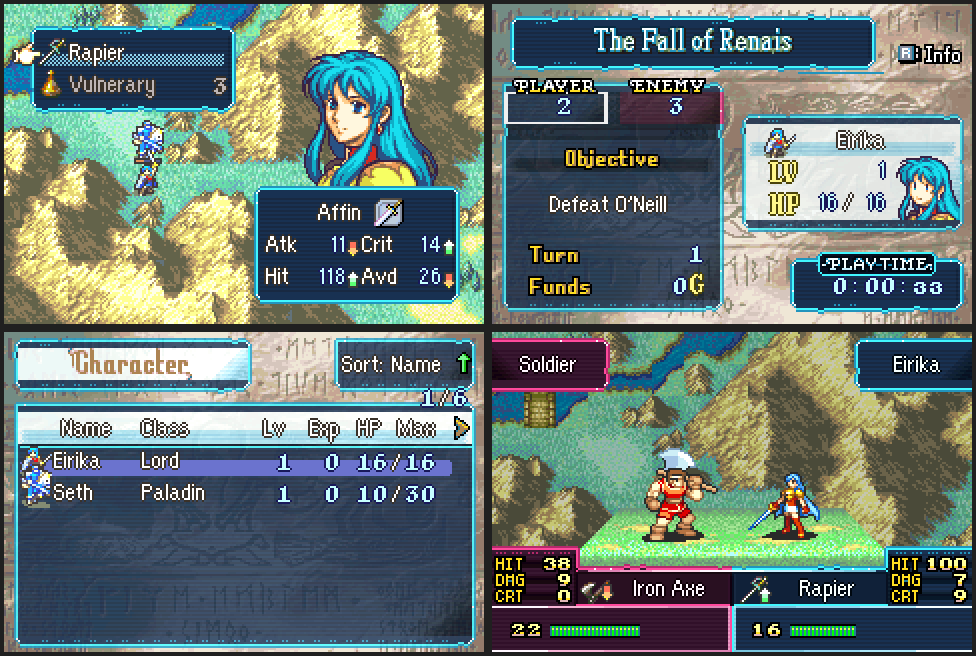
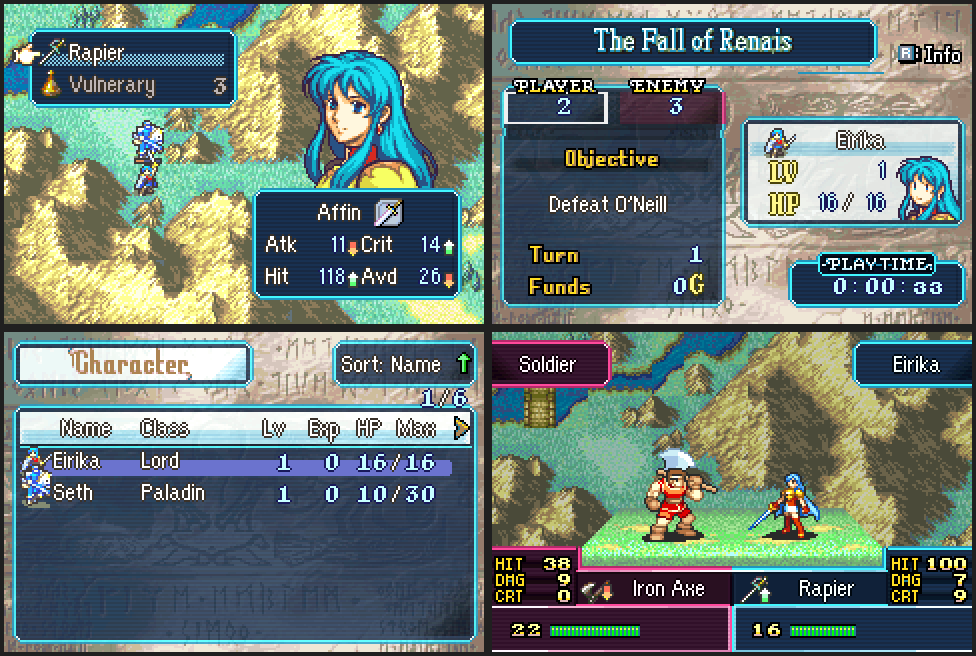
Make the Tech VeslyUI outline plain, even and rounded
- The edge details are gone: dim segments, nodes, notches, raised tabs and tick marks.
- The neon line now sits just outside a 2-pixel band of panel on all four sides. Vanilla's top and bottom bars are shared by dark and light panels, and the old layout left a thick dark strip along the top and bottom of light panels. Now the band is invisible on dark panels and an even inset line on light ones. The rest of each bar is transparent.
- Side lines sit one pixel outside vanilla's outline and top and bottom lines one pixel inside it. That leaves the corner tile room for the two-step rounded corner.
- Full-tile (style 1) windows get the same single line on their outer sides instead of dark bars.
- The Sort box's top-left tile (0x61) is treated as a corner through a new optional EXTRA_CORNERS. Wood's art is byte-identical.

Claude-Session: https://claude.ai/code/session_01Tw4Msv6aWGsnaGTgRodNJ7

diff --git a/Kernel/Wizardry/VeslyUI/png/Tech/generate_tech.py b/Kernel/Wizardry/VeslyUI/png/Tech/generate_tech.py
@@ -9,8 +9,7 @@ The shared redraw lives in ../style_tools.py; this script sets the look:
     on all four sides, with a dim glow outside it and no black outline;
     vanilla's thick top and bottom bars become panel behind that line;
   * corners are chamfered, the line cutting across them with a white-hot
-    node; along the edges, dim segments, nodes, notches, raised tabs and tick
-    marks;
+    node; the edges themselves stay plain and even;
   * scanlines on the fill colours, every other pixel row.
 
 Outputs (next to this script):
@@ -26,8 +25,7 @@ import os
 import sys
 
 sys.path.insert(0, os.path.join(os.path.dirname(os.path.abspath(__file__)), ".."))
-from style_tools import D, L, M, W, build_style, noise, outer_edges, paint, rgb, step  # noqa: E402
-import style_tools  # noqa: E402
+from style_tools import D, L, M, W, build_style, rgb  # noqa: E402
 
 NAME = "Tech"
 HERE = os.path.dirname(os.path.abspath(__file__))
@@ -98,69 +96,99 @@ def texture(image, kind, skip=frozenset()):
 # --- Frame ------------------------------------------------------------------------
 # Every window edge is one bright neon line, the same thickness on all four
 # sides, with a dim glow just outside it and no black outline. Vanilla's thick
-# top and bottom bars become panel behind that line.
+# top and bottom bars are shared by dark and light panels, so the line sits
+# just outside a 2-pixel band of panel on all four sides: invisible on dark
+# panels, an even inset line on light ones. The rest of the bar is left
+# transparent. Side lines sit one pixel outside vanilla's window outline and
+# top and bottom lines one pixel inside it, which leaves the corner tile room
+# for a rounded corner.
 OUTLINE = NEON
 PANEL = 10
 
 
 def beam(n, i, outer):
-    """A bar n pixels thick. At a window edge: the neon line on the outer
-    side, panel behind it. Between two panels: a neon line on a dark rail."""
+    """A bar n pixels thick. At a window edge: the neon line and its band
+    next to the panel, nothing outside them. Between two panels: a neon line
+    on a dark rail."""
     if outer == 0:
         return NEON if i == n // 2 else RAIL
+    if n == 1:
+        return NEON
     p = i if outer < 0 else n - 1 - i      # distance from the outer side
-    return NEON if p == 0 else PANEL
+    if p >= n - 2:
+        return PANEL
+    return NEON if p == n - 3 else 0
 
 
 # Big solid trim areas (patterned plates, the battle item boxes) become panel.
 SOLID = {W: 11, L: 12, M: 15, D: 14}
 
-# Chamfered corners: the neon line and its glow cut across the corner, with a
-# white-hot node on the cut. Rows and columns match the window outline: top
-# edges are row 4 (glow row 3), bottom edges row 4 (glow row 5), left edges
-# x 6 (glow x 5), right edges x 2 (glow x 3).
+# Rounded corners: the lines cut across the corner in two white-hot steps,
+# glow around them. Top edges are row 5 (glow row 4, band rows 6-7), bottom
+# edges row 2 (glow row 3, band rows 0-1), left edges x 5 (glow x 4, band
+# x 6-7), right edges x 3 (glow x 4, band x 1-2).
 CORNER_ART = {
     "TL": ["........",
            "........",
            "........",
            "........",
+           "........",
            ".......g",
            "......gW",
-           ".....gWP",
-           ".....gNP"],
+           ".....gWS"],
     "TR": ["........",
+           "........",
            "........",
            "........",
            "g.......",
            "Ng......",
            "PWg.....",
-           "PPWg....",
-           "PPNg...."],
-    "BL": [".....gNP",
-           ".....gWP",
+           "SSWg...."],
+    "BL": [".....gWP",
            "......gW",
            ".......g",
            "........",
            "........",
            "........",
+           "........",
            "........"],
-    "BR": ["PPNg....",
-           "PPWg....",
-           "PWg.....",
-           "Wg......",
+    "BR": ["PPWg....",
+           "SWg.....",
+           "Ng......",
            "g.......",
+           "........",
            "........",
            "........",
            "........"],
 }
-ART_INDEX = {".": 0, "N": NEON, "g": GLOW, "W": W, "P": PANEL}
+# The "Sort" box and similar windows start with this top-left tile.
+EXTRA_CORNERS = {0x61: "TL"}
+# S is panel on an odd row, already in its scanline shade.
+ART_INDEX = {".": 0, "N": NEON, "g": GLOW, "W": W, "P": PANEL, "S": PANEL + 1}
 
 # Pixels cut off a full-tile corner, as (x, y) for the top-left case.
 CORNER_CUT = [(0, 0), (1, 0), (2, 0), (0, 1), (1, 1), (0, 2)]
 
 
+# Window style 1 fills its whole tiles, so nothing marks its edges as facing
+# the backdrop. Its edge and corner tiles are drawn as plain panel with the
+# neon line on their outer sides, matching the other windows.
+FULL_TILE_EDGES = {0x73: "T", 0x75: "L", 0x76: "R", 0x78: "B"}
+
+
+def flat_panel(tile, sides, drawn):
+    for y in range(8):
+        for x in range(8):
+            edge = (("T" in sides and y == 0) or ("B" in sides and y == 7)
+                    or ("L" in sides and x == 0) or ("R" in sides and x == 7))
+            tile[y][x] = NEON if edge else PANEL
+            if edge:
+                drawn.add((x, y))
+
+
 def full_corner(tile, corner, drawn):
     """Chamfer the corner of a window that fills its whole tile."""
+    flat_panel(tile, corner, drawn)
     flip_x, flip_y = corner.endswith("R"), corner[0] == "B"
     cut = [(7 - x if flip_x else x, 7 - y if flip_y else y) for x, y in CORNER_CUT]
     for x, y in cut:
@@ -172,20 +200,19 @@ def full_corner(tile, corner, drawn):
                 drawn.add((nx, ny))
 
 
-def clean_rim(tile, drawn):
-    """Vanilla lights the inside of a window's left edge; tech keeps it panel."""
-    for y in range(8):
-        for x in range(8):
-            if tile[y][x] != NEON:
-                continue
-            for dx, dy in ((1, 0), (-1, 0), (0, 1), (0, -1)):
-                ox, oy, ix, iy, jx, jy = x - dx, y - dy, x + dx, y + dy, x + 2 * dx, y + 2 * dy
-                if not all(0 <= v < 8 for v in (ox, oy, ix, iy)):
-                    continue
-                inner_next = tile[jy][jx] if 0 <= jx < 8 and 0 <= jy < 8 else PANEL
-                if tile[oy][ox] == 0 and tile[iy][ix] == 9 and inner_next >= 10:
-                    tile[iy][ix] = PANEL
-                    drawn.add((ix, iy))
+def push_sides(tile, drawn):
+    """Move each left and right edge line one pixel out, leaving a 2-pixel
+    band of panel inside it (top and bottom bands come from beam()). The band
+    stays out of drawn so the scanlines run through it."""
+    lines = [(x, y, dx) for y in range(8) for x in range(8) for dx in (1, -1)
+             if tile[y][x] == NEON and 0 <= x - dx < 8 and tile[y][x - dx] == 0]
+    for x, y, dx in lines:
+        tile[y][x - dx] = NEON
+        drawn.add((x - dx, y))
+        tile[y][x] = PANEL
+        inner = x + dx
+        if 0 <= inner < 8 and (tile[y][inner] == W or 5 <= tile[y][inner] <= 15):
+            tile[y][inner] = PANEL
 
 
 def add_glow(tile, drawn):
@@ -198,73 +225,15 @@ def add_glow(tile, drawn):
                 drawn.add((nx, ny))
 
 
-# Details on the interchangeable beam and edge tiles (style_tools.TOP_BEAMS
-# and friends). Each: (kind, cell along the edge), cells counting from 0 at
-# pixel 1.
-EDGE_DETAILS = {
-    # top edges
-    0x04: [("notch", 1)],
-    0x11: [("node", 4)],
-    0x12: [("ticks", 1)],
-    0x13: [("dim", 2)],
-    0x32: [("tab", 1)],
-    0x33: [("node", 2), ("dim", 4)],
-    # bottom edges
-    0x1C: [("ticks", 2)],
-    0x1D: [("tab", 2)],
-    0x1E: [("dim", 1)],
-    0x20: [("notch", 2)],
-    # left edges
-    0x07: [("node", 2)],
-    0x14: [("dim", 1)],
-    0x0C: [("node", 3)],
-    0x17: [("tab", 1)],
-}
-
-
-def detail(tile, cells, inward, kind, at, drawn):
-    """One detail on the neon edge line: a dim segment, a white-hot node, a
-    notch stepping the edge in, a raised tab stepping it out, or tick marks
-    inside the panel."""
-    if kind == "dim":
-        for cell in cells[at:at + 2]:
-            paint(tile, cell, GLOW, drawn)
-    elif kind == "node":
-        paint(tile, cells[at], W, drawn)
-    elif kind == "notch":
-        for cell in cells[at:at + 3]:
-            tile[cell[1]][cell[0]] = 0
-            drawn.discard(cell)
-            paint(tile, step(cell, inward, 1), NEON, drawn)
-    elif kind == "tab":
-        for cell in cells[at:at + 3]:
-            x, y = step(cell, inward, -1)
-            if 0 <= x < 8 and 0 <= y < 8:
-                tile[y][x] = NEON
-                drawn.add((x, y))
-            paint(tile, cell, PANEL, drawn)
-    elif kind == "ticks":
-        for cell in cells[at:at + 5:2]:
-            paint(tile, step(cell, inward, 2), GLOW, drawn)
-
-
 def edge_details(tile, t, drawn):
-    """A fixed detail on EDGE_DETAILS tiles and an occasional node or dim
-    segment on other frame tiles, then the glow around every lit edge."""
-    clean_rim(tile, drawn)
-    edges = outer_edges(tile, NEON)
-    if t in EDGE_DETAILS and edges:
-        cells, inward = edges[0]
-        for kind, at in EDGE_DETAILS[t]:
-            detail(tile, cells, inward, kind, at, drawn)
-    elif t not in style_tools.DRAWUIFRAME_PLAIN:
-        for n, (cells, inward) in enumerate(edges):
-            roll = noise(t, n)
-            if roll < 750:
-                continue
-            kind = "node" if roll < 880 else "dim"
-            detail(tile, cells, inward, kind, roll % (len(cells) - 1), drawn)
+    """Plain, even edges: the neon line and its glow, nothing else."""
+    if t in FULL_TILE_EDGES:
+        flat_panel(tile, FULL_TILE_EDGES[t], drawn)
+        return
+    push_sides(tile, drawn)
     add_glow(tile, drawn)
+    # Panel pixels (the bands) take the scanlines like the rest of the panel.
+    drawn -= {(x, y) for y in range(8) for x in range(8) if tile[y][x] == PANEL}
 
 
 # --- Chapter status banners -------------------------------------------------------

diff --git a/Kernel/Wizardry/VeslyUI/png/style_tools.py b/Kernel/Wizardry/VeslyUI/png/style_tools.py
@@ -27,6 +27,7 @@ A style script defines these names (see Wood/generate_wood.py):
                           (optional; D, the black outline, by default)
   SOLID                   trim index -> colour for big solid trim areas
   CORNER_ART, ART_INDEX   8x8 corner tiles ("TL", "TR", "BL", "BR")
+  EXTRA_CORNERS           more frame tiles to treat as corners (optional)
   full_corner(tile, corner, drawn)  corner of a window with no margin
   edge_details(tile, t, drawn)      details on a tile's outer edges
   texture(image, kind, skip)        fill texture; kind is "ui" or "prep"
@@ -401,7 +402,8 @@ def build_style(style):
     jobs = [
         # vanilla name, palette for the PNG, texture kind, index order or None
         # to leave the art as is, then the frame tiles to replace
-        ("Main", menu[0], "ui", menu_order, CORNERS, PLAIN_COPIES),
+        ("Main", menu[0], "ui", menu_order, {**CORNERS, **getattr(style, "EXTRA_CORNERS", {})},
+         PLAIN_COPIES),
         ("Preps", menu[0], "ui", menu_order),
         ("PrepsUseGfx", menu[0], "ui", menu_order),
         ("PrepPopupWindow", menu[0], "ui", menu_order),

diff --git a/Documentation/Features/VeslyUIStyles.md b/Documentation/Features/VeslyUIStyles.md
@@ -41,7 +41,7 @@ Player-facing impact:
 | 2 | Green | Moss-stained | Allied (green) |
 | 3 | Sepia | Weathered grey | Other |
 
-**Tech** has a techno-futuristic look. Its windows are dark glass panels with scanlines. Each edge is one bright neon line, the same thickness on all four sides, with a dim glow just outside it and no black outline. Corners are chamfered, the line cutting across them with a white-hot node. Along the edges are dim segments, nodes, notches, raised tabs and tick marks. Light panels such as title plates and help boxes become pale glass. The chapter name on the status screen is white and cyan.
+**Tech** has a techno-futuristic look. Its windows are dark glass panels with scanlines. Each edge is one bright neon line, the same thickness on all four sides, with a dim glow just outside it and no black outline. Inside the line is a 2-pixel band of panel: invisible on dark panels, an even inset line on light ones. Corners are rounded, the line cutting across them in two white-hot steps. The edges are otherwise plain and symmetrical. Light panels such as title plates and help boxes become pale glass. The chapter name on the status screen is white and cyan.
 
 | Window colour | Vanilla | Tech | Faction it tints |
 |---------------|---------|------|------------------|
@@ -91,14 +91,14 @@ Each getter in `C_Code.c` indexes a table by the style ID (one entry per style).
 
 `png/style_tools.py` holds the shared redraw. Each style's script (`png/Wood/generate_wood.py`, `png/Tech/generate_tech.py`) sets the look and calls `build_style`, which builds every file for that style from the vanilla images in `png/Vanilla`. It keeps each image's tile layout and window outline, so the game's tilemaps still line up, and redraws what is inside:
 
-- Gold trim bars are redrawn by the style's `beam`, from each pixel's position across the bar: wooden beams for wood; for tech, the neon edge line with panel behind it (a neon line on a dark rail between two panels).
+- Gold trim bars are redrawn by the style's `beam`, from each pixel's position across the bar: wooden beams for wood; for tech, the neon edge line and its band, with the rest of the bar left transparent (a neon line on a dark rail between two panels).
 - Every edge that meets the transparent backdrop gets the style's `OUTLINE`: black for wood, the neon line for tech (which also adds a glow outside it).
 - Ornament tiles (curls, crests, the battle gem) are replaced with the plain tile of the same role (`PLAIN_COPIES`, `BATTLE_COPIES`).
-- Corner tiles come from the style's `CORNER_ART`: broken plank ends for wood, chamfers with a white-hot node for tech (`CORNERS`, `BATTLE_CORNERS`).
+- Corner tiles come from the style's `CORNER_ART`: broken plank ends for wood, rounded neon corners for tech (`CORNERS`, `BATTLE_CORNERS`).
 - The status screen's chapter title banner and play-time box are rebuilt from the finished frame tiles, so they match the windows. The play-time box keeps vanilla's letters on a small plate (`play_status`). It is 96 pixels wide instead of 80 so the clock fits, so `StatusScreenSpriteDraw_Loop` in `C_Code.c` draws it with a wider sprite for these styles.
-- Beam and edge tiles get the style's details (`edge_details`): chips, cracks and grain streaks for wood (`EDGE_CHIPS`); dim segments, nodes, notches, raised tabs and ticks for tech (`EDGE_DETAILS`). Other tiles get an occasional small one.
+- Beam and edge tiles get the style's details (`edge_details`): chips, cracks and grain streaks for wood (`EDGE_CHIPS`, plus an occasional small dent on other tiles); for tech, the side lines move one pixel out to leave the band, and every lit edge gets its glow.
 
-For these styles, `DrawUiFrame` (replaced in `C_Code.c`) picks each top beam, bottom beam and left edge tile from a set of interchangeable ones by position. So the details along a window don't repeat every 8 pixels. The tile sets in `C_Code.c` (`sFrameTopBeams` and friends) must match `TOP_BEAMS` and friends in `style_tools.py`.
+For these styles, `DrawUiFrame` (replaced in `C_Code.c`) picks each top beam, bottom beam and left edge tile from a set of interchangeable ones by position. So wood's chips along a window don't repeat every 8 pixels. Tech's beam tiles all look the same, so the mixing makes no difference there. The tile sets in `C_Code.c` (`sFrameTopBeams` and friends) must match `TOP_BEAMS` and friends in `style_tools.py`.
 
 Last, it swaps in the style's palettes and adds its fill texture: wood grain, or tech scanlines. Both repeat every 8×8 tile, so repeated tiles join up. The installer converts the PNGs with `Png2Dmp --lz77` at build time.
 
